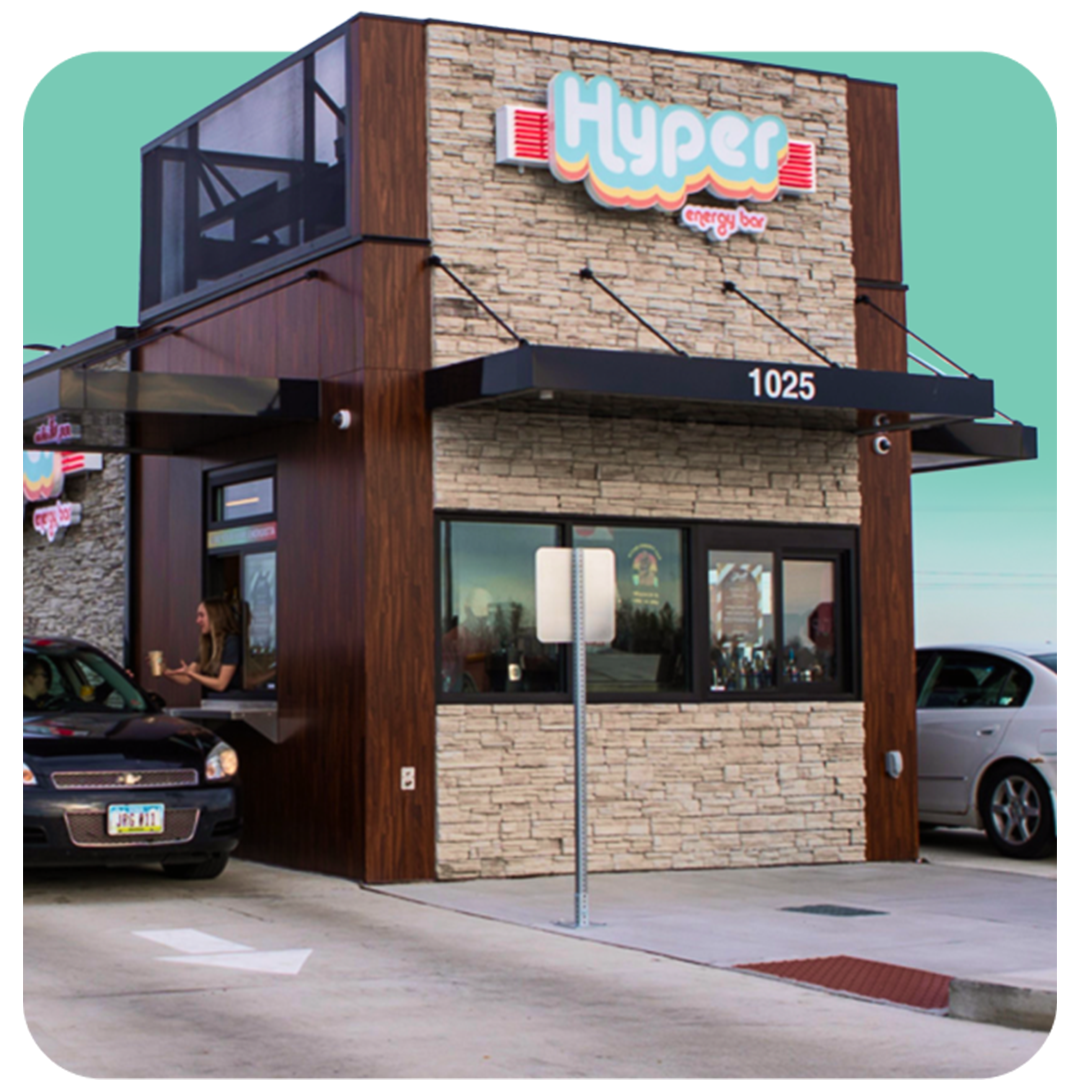
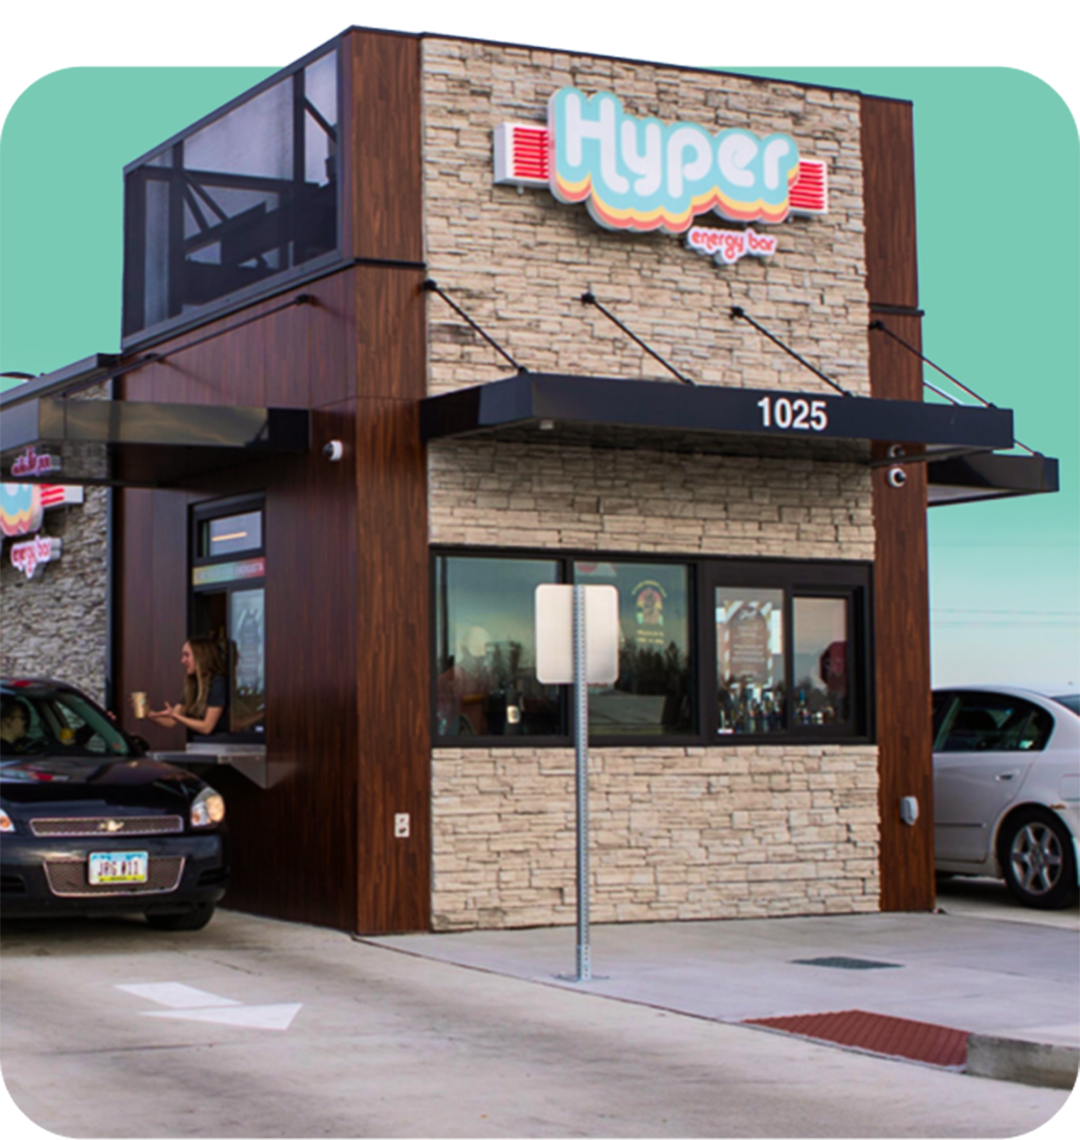
More updates

diff --git a/app/page.tsx b/app/page.tsx
@@ -123,7 +123,7 @@ export default function Home() {
           />
         </div>
       </div>
-      <div className="pt-10 sm:pt-20 bg-xltgreen">
+      <div className="pt-10 pb-10 sm:pt-20 sm:pb-0 bg-xltgreen">
         <div className="container max-w-screen-lg px-5 sm:px-10">
           <div className="sm:grid grid-cols-2 sm:gap-20 sm:flex sm:items-center">
             <div className="block">
@@ -133,7 +133,7 @@ export default function Home() {
                 width={1080}
                 height={1080}
                 alt="Hyper Energy Bar"
-                className="mx-auto"
+                className="mx-auto mb-5 sm:mb-0"
               />
             </div>
             <div className="block">
